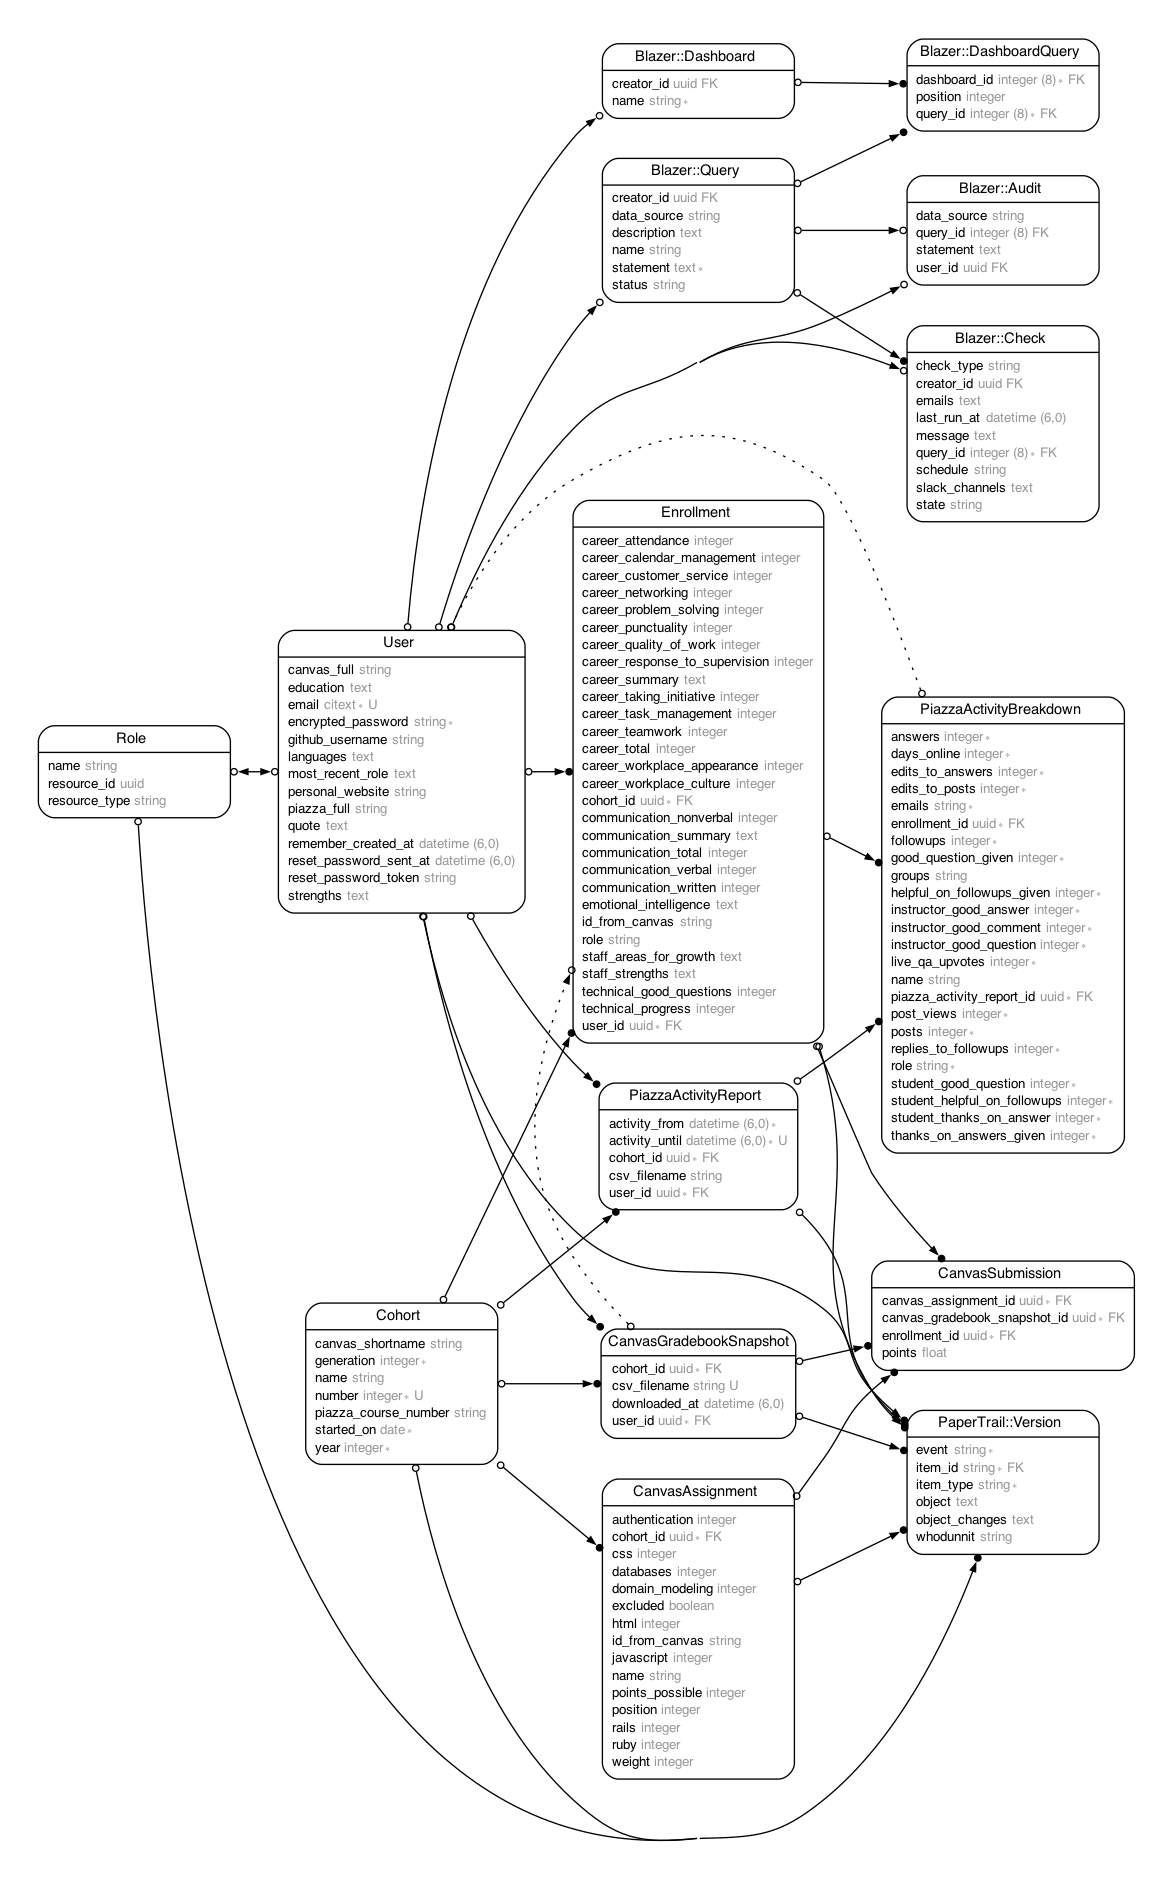
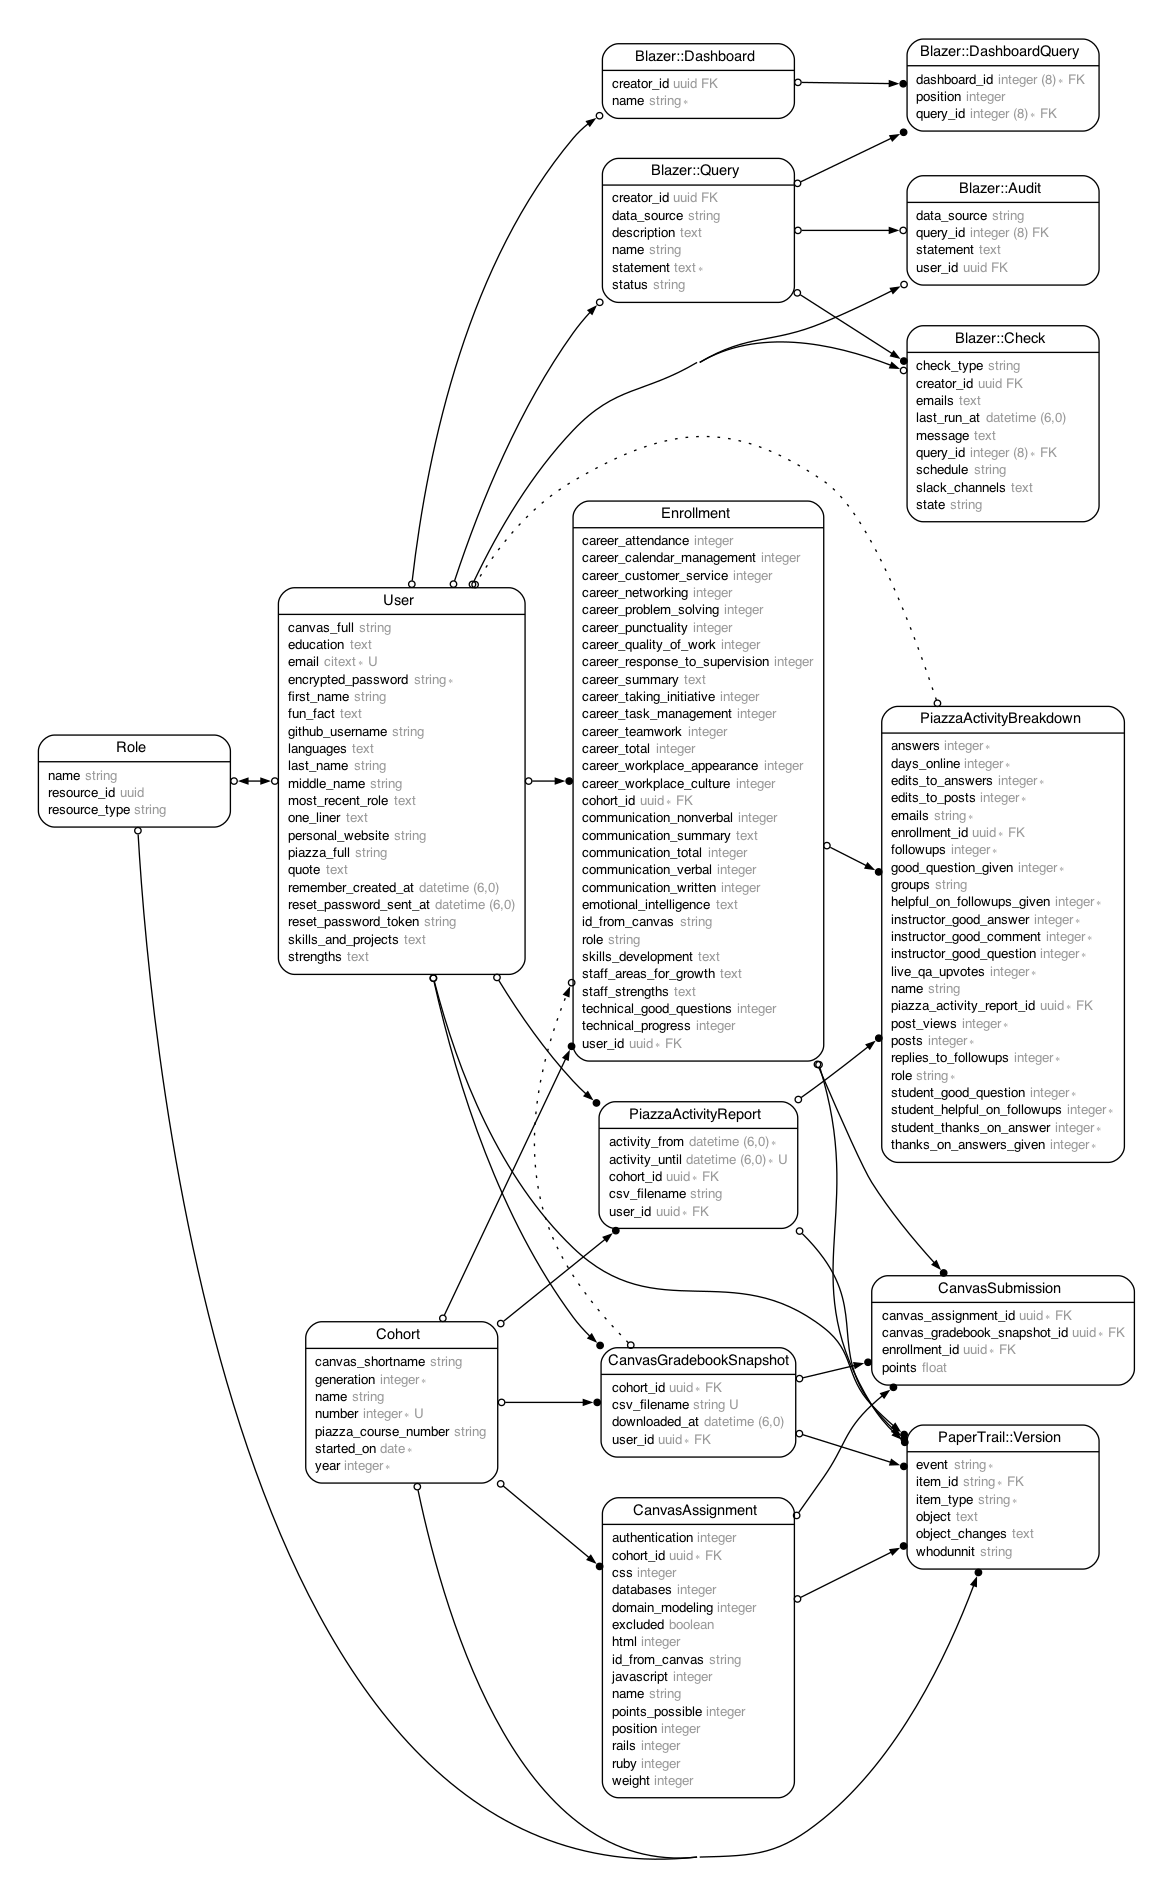
Add snapshot attributes to user/enrollment for profiles.

diff --git a/db/schema.rb b/db/schema.rb
@@ -10,7 +10,7 @@
 #
 # It's strongly recommended that you check this file into your version control system.
 
-ActiveRecord::Schema[7.0].define(version: 2023_06_09_134940) do
+ActiveRecord::Schema[7.0].define(version: 2023_06_12_133316) do
   # These are extensions that must be enabled in order to support this database
   enable_extension "citext"
   enable_extension "pgcrypto"
@@ -160,6 +160,7 @@ ActiveRecord::Schema[7.0].define(version: 2023_06_09_134940) do
     t.text "emotional_intelligence"
     t.text "staff_strengths"
     t.text "staff_areas_for_growth"
+    t.text "skills_development"
     t.index ["cohort_id"], name: "index_enrollments_on_cohort_id"
     t.index ["id_from_canvas"], name: "index_enrollments_on_id_from_canvas"
     t.index ["user_id"], name: "index_enrollments_on_user_id"
@@ -235,6 +236,12 @@ ActiveRecord::Schema[7.0].define(version: 2023_06_09_134940) do
     t.text "languages"
     t.text "strengths"
     t.text "education"
+    t.text "fun_fact"
+    t.string "first_name"
+    t.string "middle_name"
+    t.string "last_name"
+    t.text "one_liner"
+    t.text "skills_and_projects"
     t.index ["email"], name: "index_users_on_email", unique: true
     t.index ["github_username"], name: "index_users_on_github_username", unique: true
     t.index ["reset_password_token"], name: "index_users_on_reset_password_token", unique: true

diff --git a/app/models/user.rb b/app/models/user.rb
@@ -7,15 +7,21 @@
 #  education              :text
 #  email                  :citext           default(""), not null
 #  encrypted_password     :string           default(""), not null
+#  first_name             :string
+#  fun_fact               :text
 #  github_username        :string
 #  languages              :text
+#  last_name              :string
+#  middle_name            :string
 #  most_recent_role       :text
+#  one_liner              :text
 #  personal_website       :string
 #  piazza_full            :string
 #  quote                  :text
 #  remember_created_at    :datetime
 #  reset_password_sent_at :datetime
 #  reset_password_token   :string
+#  skills_and_projects    :text
 #  strengths              :text
 #  created_at             :datetime         not null
 #  updated_at             :datetime         not null

diff --git a/spec/models/user_spec.rb b/spec/models/user_spec.rb
@@ -7,15 +7,21 @@
 #  education              :text
 #  email                  :citext           default(""), not null
 #  encrypted_password     :string           default(""), not null
+#  first_name             :string
+#  fun_fact               :text
 #  github_username        :string
 #  languages              :text
+#  last_name              :string
+#  middle_name            :string
 #  most_recent_role       :text
+#  one_liner              :text
 #  personal_website       :string
 #  piazza_full            :string
 #  quote                  :text
 #  remember_created_at    :datetime
 #  reset_password_sent_at :datetime
 #  reset_password_token   :string
+#  skills_and_projects    :text
 #  strengths              :text
 #  created_at             :datetime         not null
 #  updated_at             :datetime         not null

diff --git a/db/migrate/20230612133316_add_snapshot_attributes.rb b/db/migrate/20230612133316_add_snapshot_attributes.rb
@@ -1,0 +1,11 @@
+class AddSnapshotAttributes < ActiveRecord::Migration[7.0]
+  def change
+    add_column :users, :fun_fact, :text
+    add_column :users, :first_name, :string
+    add_column :users, :middle_name, :string
+    add_column :users, :last_name, :string
+    add_column :users, :one_liner, :text
+    add_column :users, :skills_and_projects, :text
+    add_column :enrollments, :skills_development, :text
+  end
+end

diff --git a/app/models/enrollment.rb b/app/models/enrollment.rb
@@ -26,6 +26,7 @@
 #  emotional_intelligence         :text
 #  id_from_canvas                 :string
 #  role                           :string
+#  skills_development             :text
 #  staff_areas_for_growth         :text
 #  staff_strengths                :text
 #  technical_good_questions       :integer          default(0)

diff --git a/spec/models/enrollment_spec.rb b/spec/models/enrollment_spec.rb
@@ -26,6 +26,7 @@
 #  emotional_intelligence         :text
 #  id_from_canvas                 :string
 #  role                           :string
+#  skills_development             :text
 #  staff_areas_for_growth         :text
 #  staff_strengths                :text
 #  technical_good_questions       :integer          default(0)
